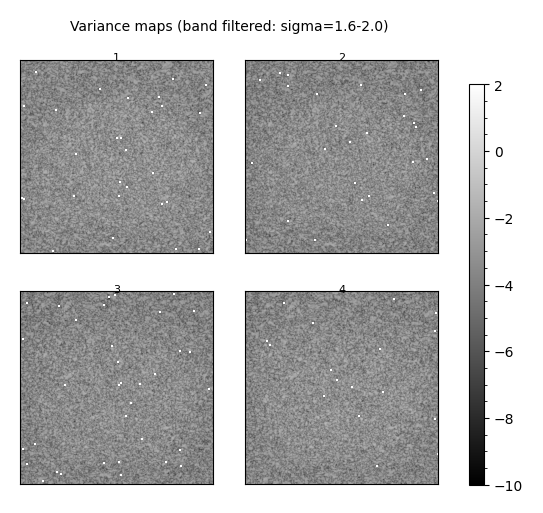
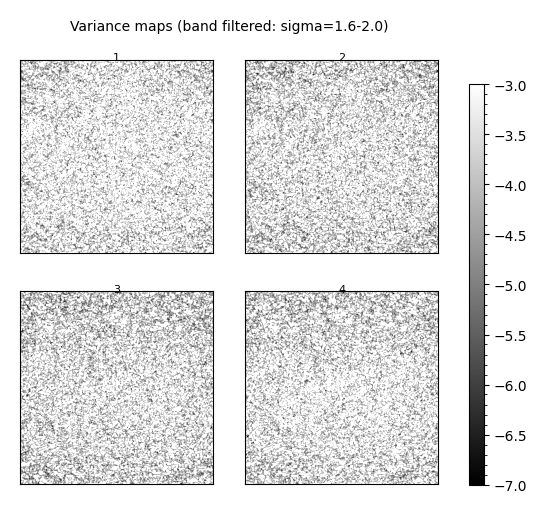
W5

diff --git a/filter_fn.py b/filter_fn.py
@@ -32,9 +32,25 @@ def filter_recon(image_sets):
 def bandpass(folder, nums, image_sets, recon_filtered_all):
     print("band pass")
     for u in range(1, 13):
-        plot_min = -10
-        plot_max = 2
-
+        if u < 4:
+            plot_min = -3
+            plot_max = 2
+        elif u == 4:
+            plot_min = -5
+            plot_max = -1
+        elif u == 5:
+            plot_min = -7
+            plot_max = -3
+        elif u == 6 or u == 7:
+            plot_min = -9
+            plot_max = -5.5
+        elif u == 8:
+            plot_min = -11
+            plot_max = -8.5
+        else:
+            plot_min = -11
+            plot_max = -8.9
+        
         true_images, measurements, reconstructions = image_sets
 
         band_filtered = recon_filtered_all[u - 1] - recon_filtered_all[u]
@@ -63,8 +79,24 @@ def bandpass(folder, nums, image_sets, recon_filtered_all):
 def lowpass(folder, nums, image_sets, recon_filtered_all):
     print("low pass")
     for u in range(13):
-        plot_min = -10
-        plot_max = 2
+        if u < 4:
+            plot_min = -3
+            plot_max = 2
+        elif u == 4:
+            plot_min = -5
+            plot_max = -1
+        elif u == 5:
+            plot_min = -7
+            plot_max = -3
+        elif u == 6:
+            plot_min = -9
+            plot_max = -5.5
+        elif u == 7:
+            plot_min = -11
+            plot_max = -8.5
+        else:
+            plot_min = -11
+            plot_max = -8.9
 
         true_images, measurements, reconstructions = image_sets
 
@@ -80,6 +112,7 @@ def lowpass(folder, nums, image_sets, recon_filtered_all):
 
         # print("max: ", torch.max(variance))
         # print("min: ", torch.min(variance))
+        # print(variance[0, 0, 0, :, :, :])
 
     return 0
 
